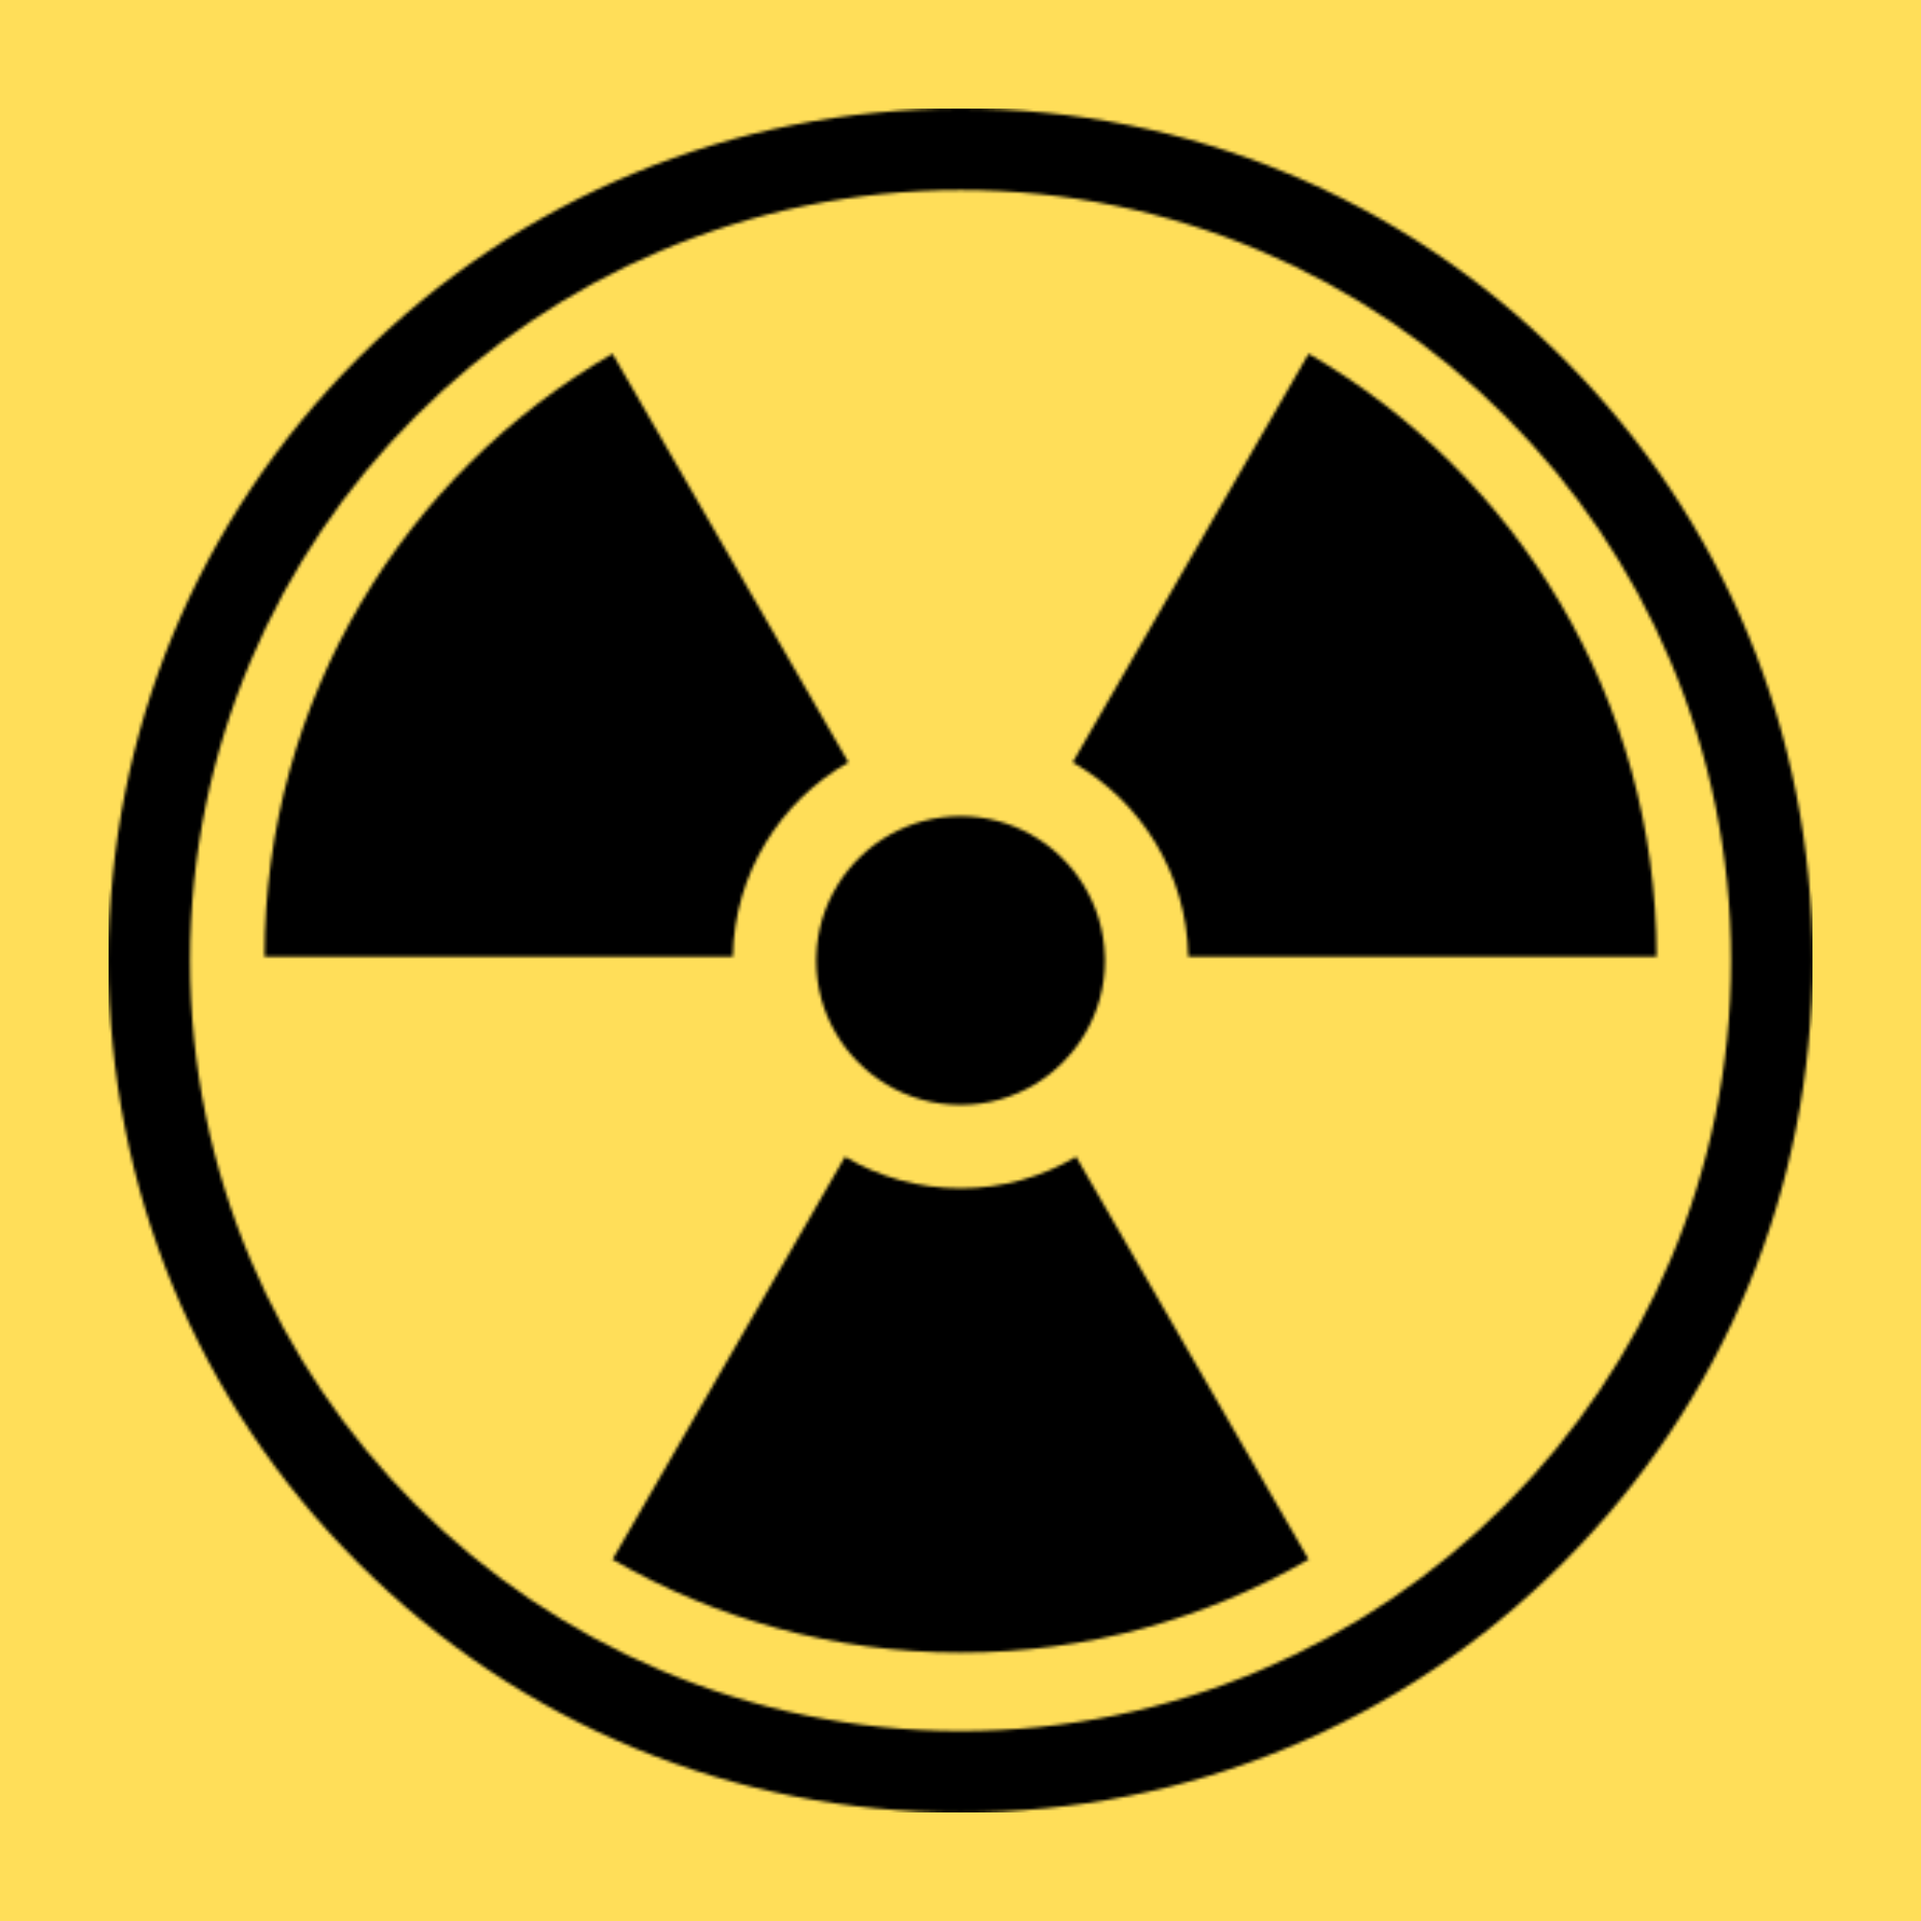
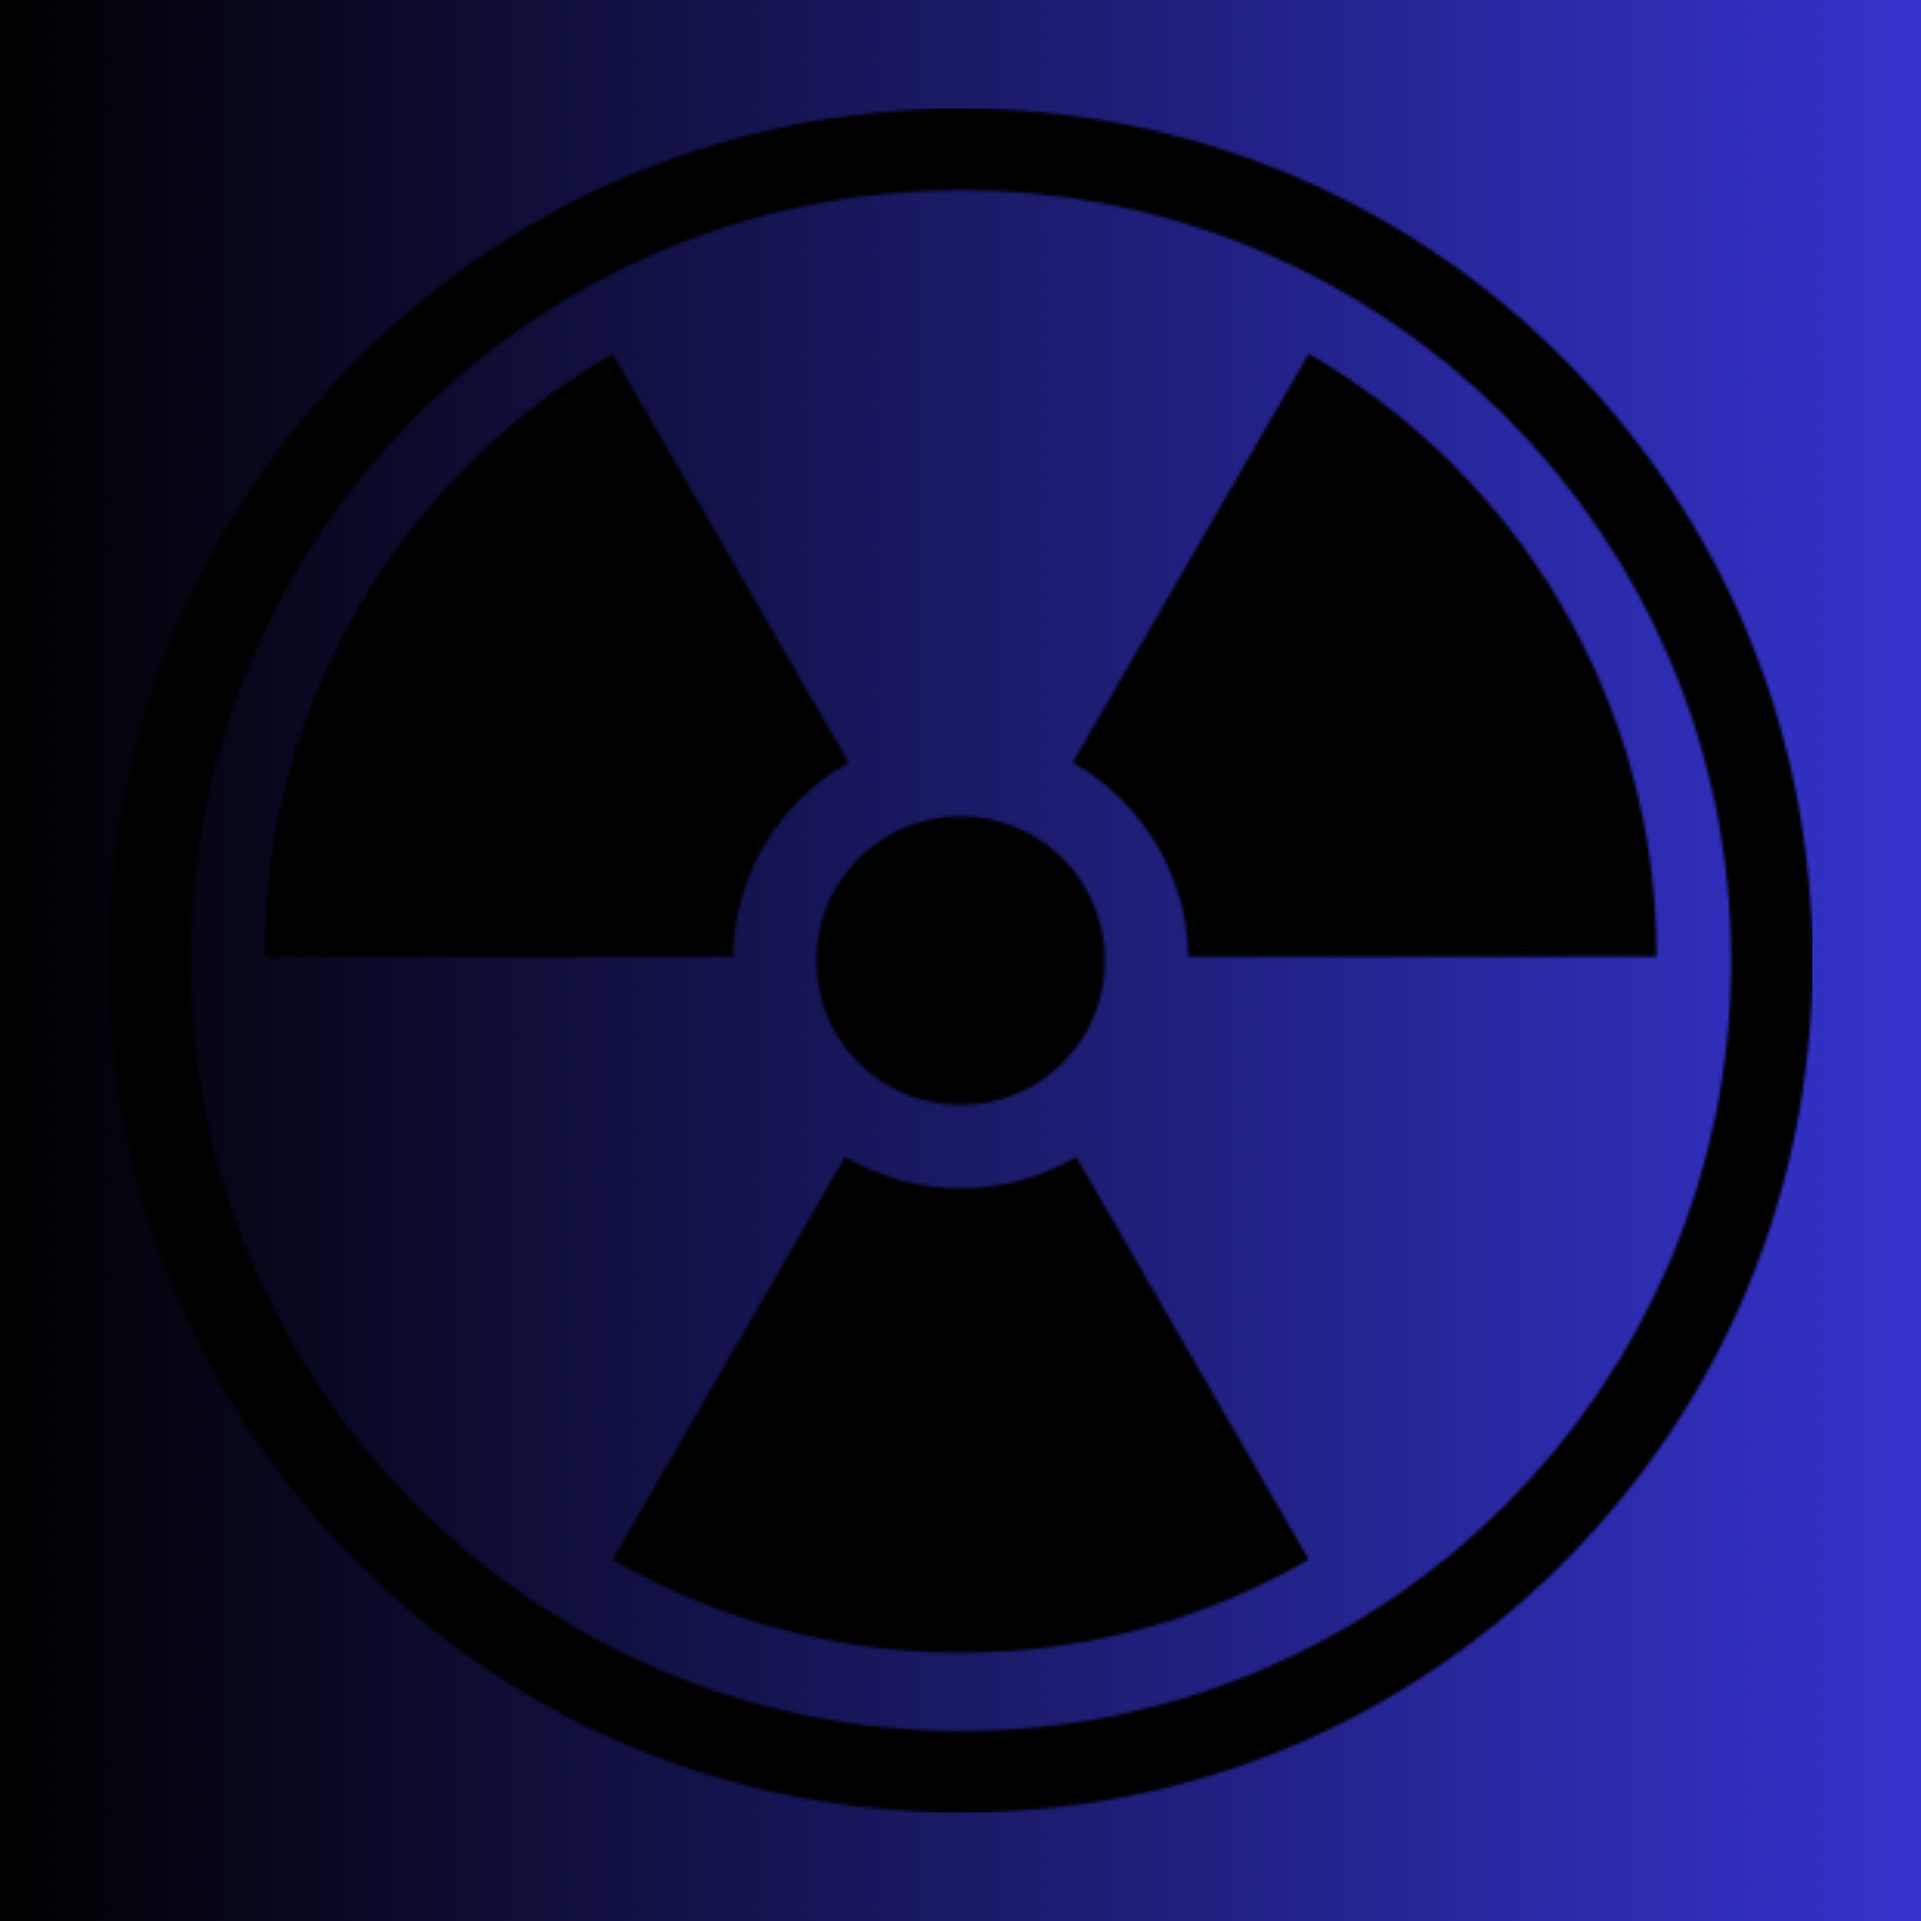
14/5/2024

diff --git a/README.md b/README.md
@@ -61,6 +61,8 @@
 
 ### Response Protocol: Blue.
 
+![](Miscellaneous/Art/Images/icons/nuke.ico)
+
 In case that you detect that the victim, security forces or private cybersecurity companies are trying to:
 
 -   Defend from us. 
